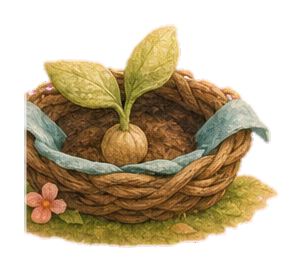
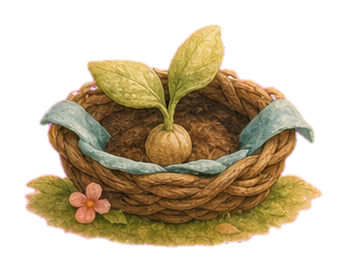
Release 0.1.8

diff --git a/src/game/gardenLayout.ts b/src/game/gardenLayout.ts
@@ -77,13 +77,13 @@ const MOBILE_LENS_SAFE_GAP = 8;
 const PREFERRED_PLOT_IDS = ['front-right', 'front-center', 'front-left', 'front-far-right'];
 
 const LENS_PROP_RATIOS: Record<LensKind, { width: number; height: number }> = {
-  word: scaledRatio(333, 246),
-  body: scaledRatio(352, 242),
-  emotion: scaledRatio(261, 294),
+  word: scaledRatio(335, 247),
+  body: scaledRatio(364, 243),
+  emotion: scaledRatio(290, 275),
   image: scaledRatio(340, 251),
-  observer: scaledRatio(339, 225),
-  meaning: scaledRatio(339, 294),
-  action: scaledRatio(394, 295)
+  observer: scaledRatio(340, 227),
+  meaning: scaledRatio(341, 295),
+  action: scaledRatio(347, 272)
 };
 
 const LENS_RING: Array<{

diff --git a/docs/releases/0.1.8.md b/docs/releases/0.1.8.md
@@ -1,0 +1,43 @@
+# Release 0.1.8 — widen the basket and lantern
+
+Repair the action-basket and emotion-lantern lens props after visual QA found their runtime cutouts too tight, and tighten the asset audit so packed source-sheet crops cannot quietly accept edge-touching artwork.
+
+## Highlights
+
+- Re-cuts the action basket from the source sheet so the full right cloth edge, grass base, and flower read cleanly in the garden.
+- Re-cuts the emotion lantern with a cleaner base and removes a detached lower-edge artifact.
+- Keeps transparent runtime padding and soft antialiasing around the two fixed props.
+- Aligns lens layout ratio metadata with the current runtime PNG dimensions so Phaser bounds match the rendered art.
+- Strengthens source-crop QA to inspect the main non-chroma source component with a nonzero edge margin.
+
+## What changed
+
+- Release metadata:
+  - `package.json`
+  - `docs/releases/README.md`
+  - `docs/releases/0.1.8.md`
+  - Bumps the package release line to `0.1.8` and adds this note to the release index.
+- Lens asset cleanup:
+  - `scripts/clean-lens-props.mjs`
+  - Re-cuts `action-basket.png`, `emotion-lantern.png`, and the existing `body-ripple.png` from explicit source-sheet regions before cleanup.
+  - Removes tiny detached lantern artifacts while preserving the main lantern, petal, and grass silhouette.
+- Lens asset audit:
+  - `scripts/audit-lens-props.mjs`
+  - Keeps the 24px transparent runtime padding requirement.
+  - Adds source-component margin checks so future recuts fail when the main artwork touches the extraction edge.
+- Runtime lens props and layout:
+  - `src/assets/lenses/props/action-basket.png`
+  - `src/assets/lenses/props/emotion-lantern.png`
+  - `src/game/gardenLayout.ts`
+  - Updates the two fixed PNGs and refreshes lens prop ratios to match current runtime asset dimensions.
+
+## Lore
+
+Constraint: Lens props should arrive in the garden as complete handmade objects, not as tight source-sheet fragments whose missing edges become visible during play.
+Rejected: Hide the basket and lantern cutoff with Phaser scale or placement changes | The cutoff was baked into the runtime PNGs, so the asset cutouts and cleanup path needed to own the fix.
+Rejected: Allow zero source margin exceptions in the audit | Zero-margin exceptions would let the original failure mode pass again; the audit now checks the main source component with a nonzero edge guard.
+Confidence: high
+Scope-risk: narrow
+Directive: Let every lens prop keep enough transparent air to breathe, and make future crops prove they are not touching the edge before release.
+Tested: `pnpm run lens:clean`; `pnpm run lens:audit`; targeted PNG pixel/component checks for `action-basket.png`, `emotion-lantern.png`, and `body-ripple.png`; Browser skill desktop active emotion-lens QA; Browser skill desktop active action-lens QA; Browser skill mobile active emotion-lens QA; Browser skill mobile active action-lens QA; `pnpm run test`; `pnpm run build`; `pnpm run e2e --project=chromium` with the local temporary `corepack` shim for this machine.
+Not-tested: GitHub Actions production deploy and release publishing have not run for this tag yet.

diff --git a/docs/releases/README.md b/docs/releases/README.md
@@ -2,6 +2,7 @@
 
 Latest first.
 
+- [`0.1.8`](./0.1.8.md) — widens the action-basket and emotion-lantern lens props with stronger crop QA
 - [`0.1.7`](./0.1.7.md) — smooths the body-ripple lens prop and hardens repeatable lens asset cleanup
 - [`0.1.6`](./0.1.6.md) — stops deployed production bundles from advertising unavailable source maps
 - [`0.1.5`](./0.1.5.md) — records the passing mobile active-lens sign-off and release-ready QA evidence